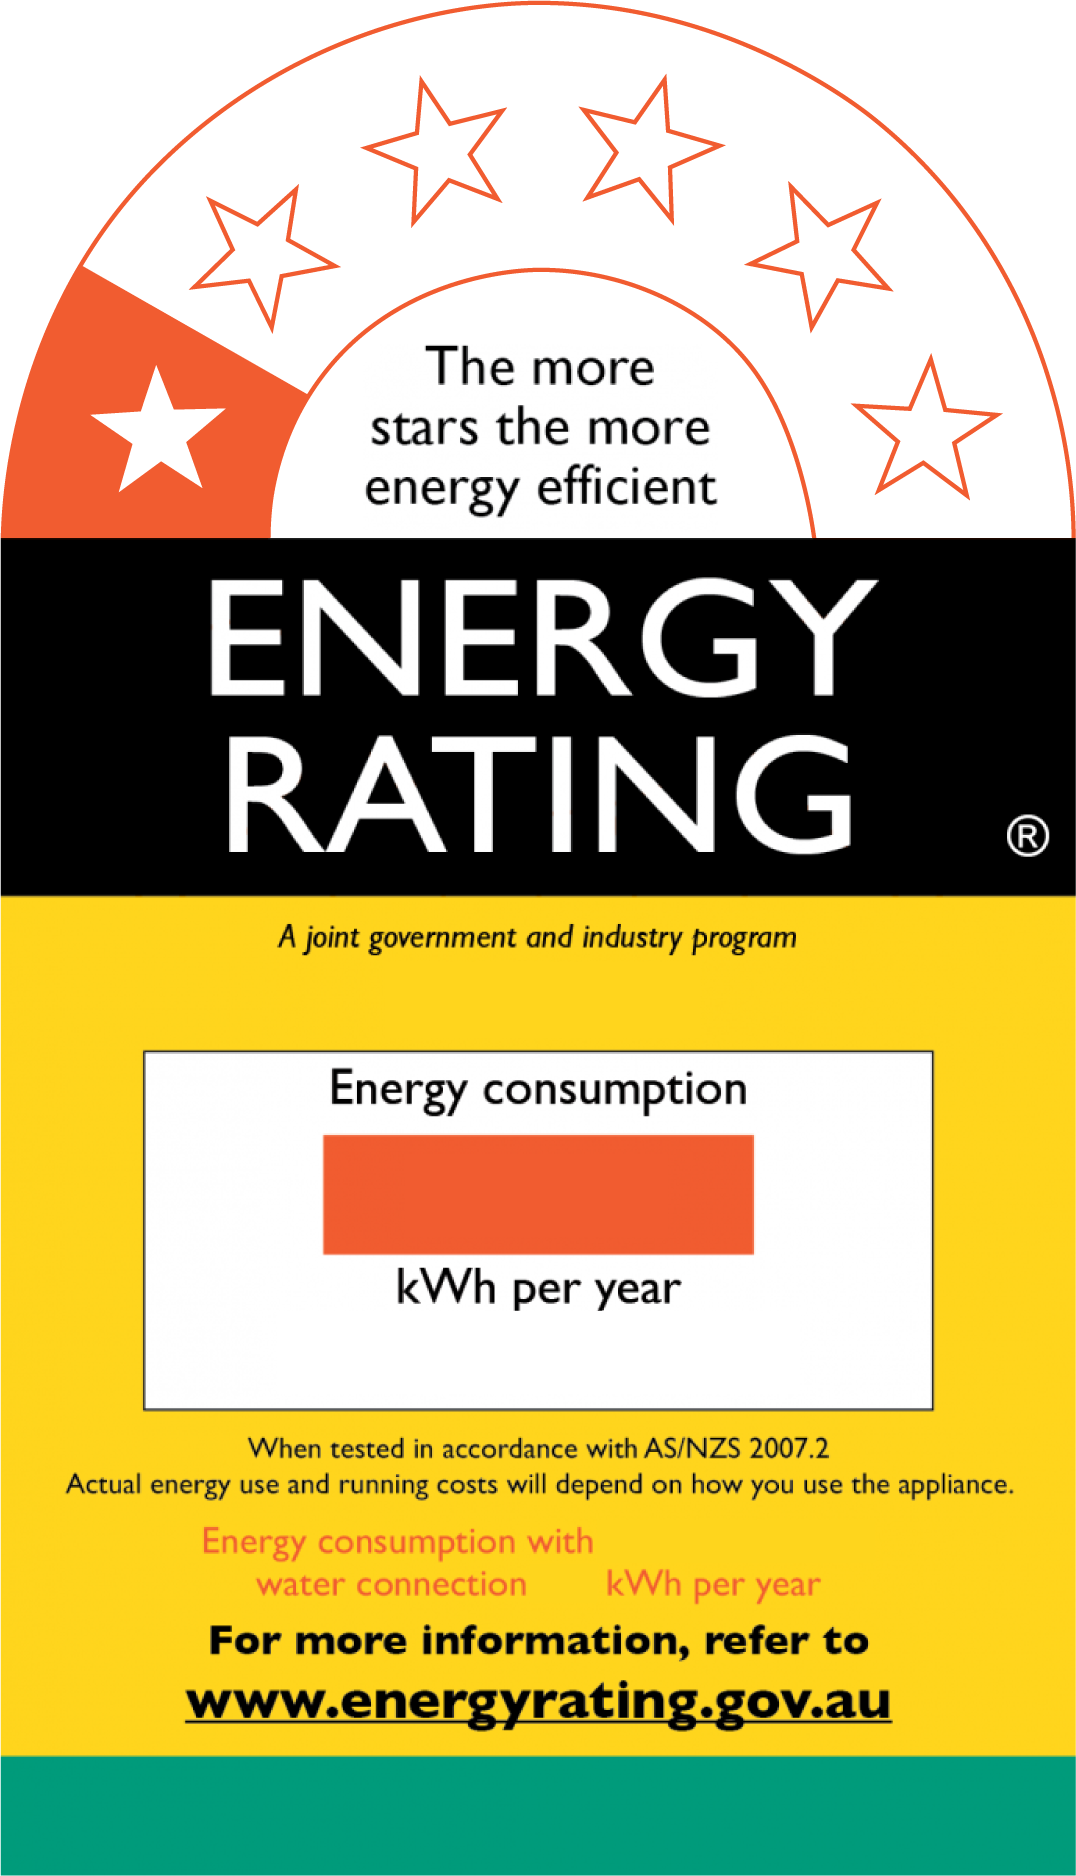
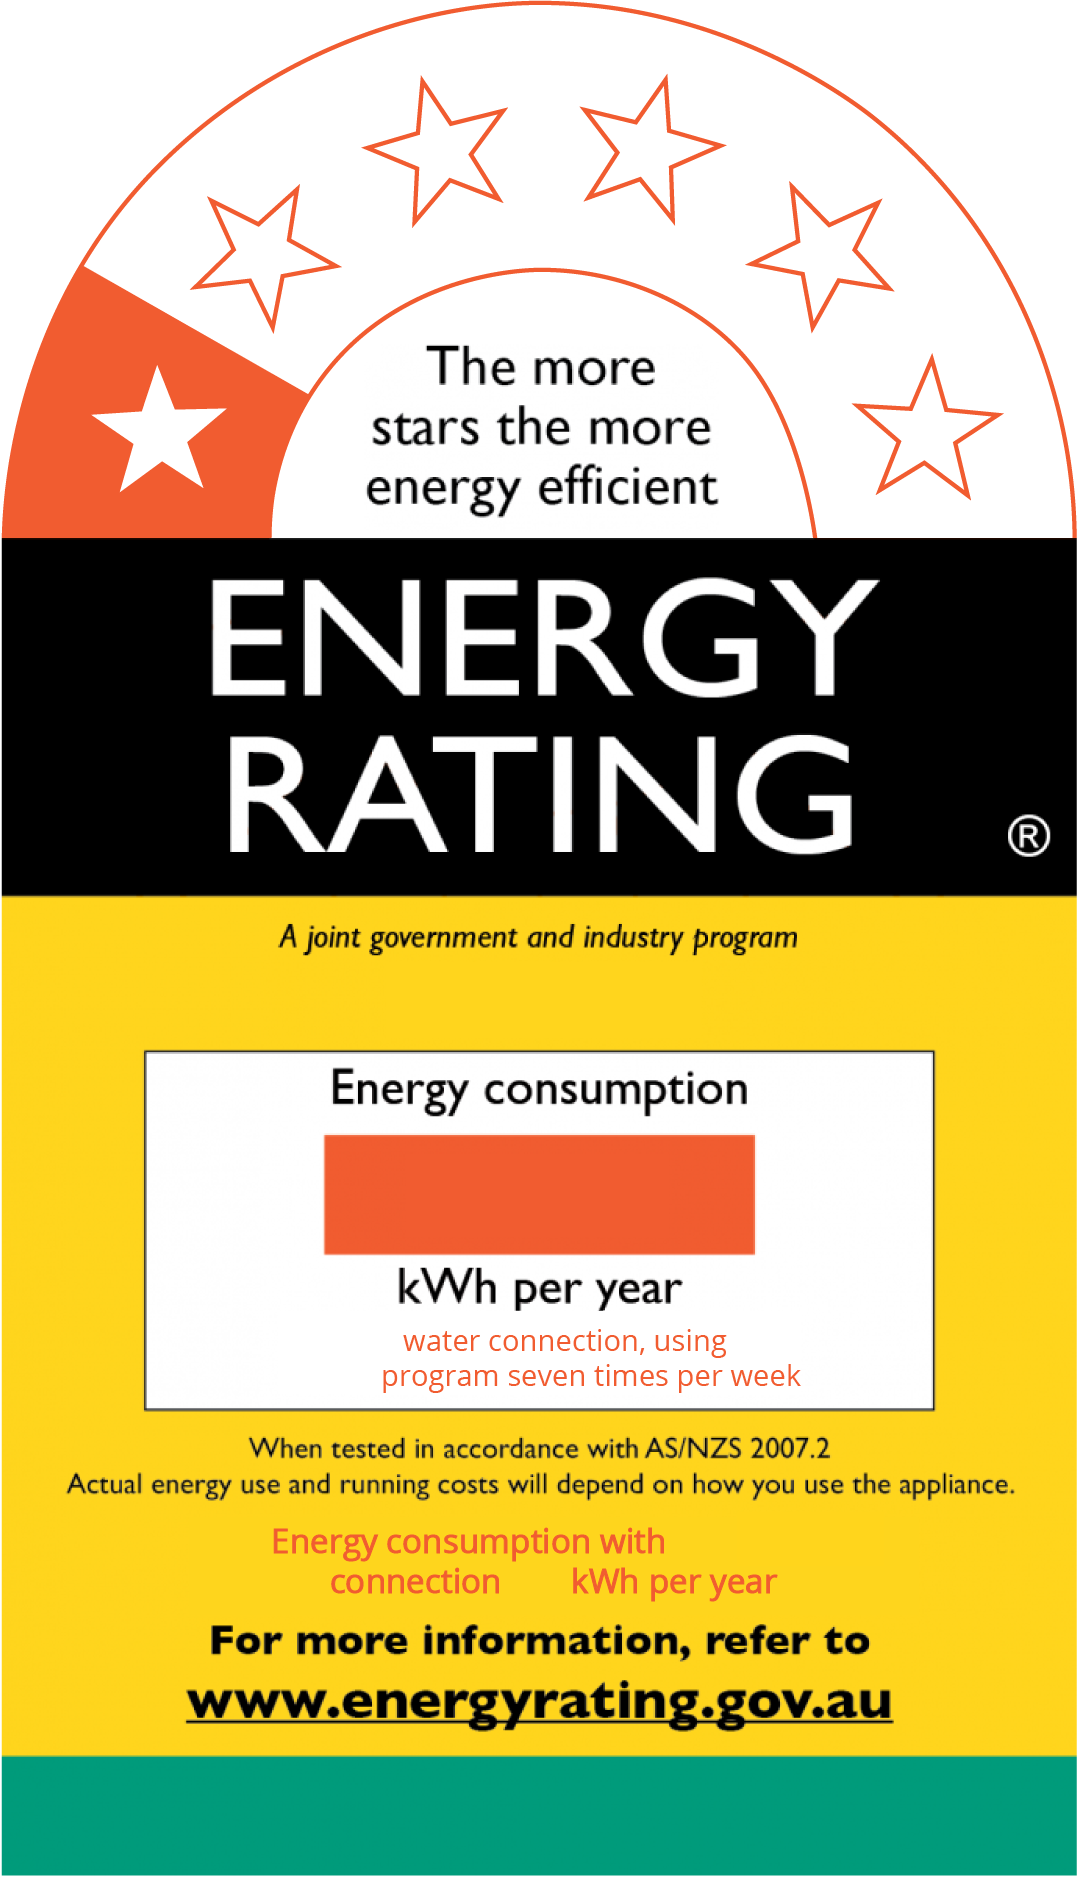
updated template images, fixed greeting message
added templates for up to 4 stars correctly formatted, added if/else logic in homepage.html to render greeting message correctly

diff --git a/mywebsite/images/templates/images/homepage.html b/mywebsite/images/templates/images/homepage.html
@@ -29,8 +29,11 @@
 
         <!-- This text is displayed differently on mac vs windows, probably due to the Bootstrap
         default being different between browsers/platforms. -->
-
-        <h1 class="text-center welcome-text-header"> {{ greeting_message }} </h1>
+        {% if user.is_authenticated %}
+        <h1 class="text-center welcome-text-header"> Hey, {{ user.first_name }}!</h1>
+        {% else %}
+        <h1 class="text-center welcome-text-header"> Hey there! </h1>
+        {% endif %}
         <h4 class="text-center welcome-text">There's gonna be an awesome website here soon.</h4>
         <h4 class="text-center lower-text">(as soon as we catch the python that's loose in the server)</h4>
     </div>

diff --git a/mywebsite/images/templates/images/sign in.html b/mywebsite/images/templates/images/sign in.html
@@ -35,8 +35,8 @@
                 {% csrf_token %}
                 
                 <div class="form-group col-12">
-                    {{ form.username.label }}
-                    {{ form.username }}
+                    {{ form.email.label }}
+                    {{ form.email }}
                 </div>
 
                 <div class="form-group col-12">

diff --git a/mywebsite/images/templates/images/final_image.html b/mywebsite/images/templates/images/final_image.html
@@ -26,7 +26,7 @@
         </ul>
 
     <div class="container-fluid">
-        <h1 class="text-center white-override"> Your new image: </h1>
+        <h1 class="text-center white-override"> Your label image: </h1>
         <img class="final-img" src ="{% static 'images/temp/' %}{{ image }}.png">
     </div>
 

diff --git a/mywebsite/images/views.py b/mywebsite/images/views.py
@@ -11,12 +11,7 @@ from PIL import Image, ImageDraw, ImageFont
 def index(request):
     # Returns homepage with default greeting if user is not signed in, or
     # personalized greeting with the users name if they are signed in.
-
-    if request.user.is_authenticated:
-        greeting_message = 'Hey, ' + request.user.first_name + '!'
-        return render(request, 'images/homepage.html', {'greeting_message': greeting_message})
-    else:
-        return render(request, 'images/homepage.html', {'greeting_message': 'Welcome!' })
+    return render(request, 'images/homepage.html')
 
 def final_image(request):
     return render(request, 'images/final_image.html')
@@ -55,10 +50,10 @@ def sign_in (request):
         # or has invalid characters? I'm not really sure.)
         if form.is_valid():
             # request.POST[''] retrieves that supplied value from the submitted form.
-            username = request.POST['username']
+            email = request.POST['email']
             password = request.POST['password']
 
-            user = authenticate(request, username=username, password=password)
+            user = authenticate(request, email=email, password=password)
 
             # Confirms that user exists in the database.
             if user is not None:
@@ -68,7 +63,7 @@ def sign_in (request):
                 return redirect('/images/')
 
             else:
-                return HttpResponse('<h1>Mission Failed!</h1>')
+                return HttpResponse('<h1>Uh oh! Something went wrong.</h1>')
 
     # Renders the template with the form data - it looks weird being at the bottom down here,
     # but this is where it's supposed to be.
@@ -80,13 +75,12 @@ def sign_up (request):
     if request.method == 'POST':
         form = SignUpForm(request.POST)
         if form.is_valid():
-           username = form.cleaned_data['username']
            email = form.cleaned_data['email']
            first_name = form.cleaned_data['first_name']
            last_name = form.cleaned_data['last_name']
            password = form.cleaned_data['password']
 
-           user = User.objects.create_user(username, email)
+           user = User.objects.create_user(email)
            user.first_name = first_name
            user.last_name = last_name
            user.set_password(password)

diff --git a/mywebsite/images/imageOverlay.py b/mywebsite/images/imageOverlay.py
@@ -54,8 +54,8 @@ class ImageOverlay():
         kWh_small_text_size = kWh_small.textsize(self.kwh, font=kWh_font)
         kWh_small_text_midpoint = kWh_small_text_size[0] / 2
 
-        d1_text_size = model_num.textsize(self.model_num, font=model_num_font)
-        model_num_text_midpoint = d1_text_size[0] / 2
+        model_num_text_size = model_num.textsize(self.model_num, font=model_num_font)
+        model_num_text_midpoint = model_num_text_size[0] / 2
 
         # Overlays Model Number, with orange text.
         model_num.text((538 - model_num_text_midpoint , 980), self.model_num, font = model_num_font, fill=(241, 92, 48))
@@ -70,13 +70,11 @@ class ImageOverlay():
 
         program.text((274, 1354), 'normal', font=primary_font, fill=(241, 92, 48))
 
-        
-
         # Generates unique ID for each image, so they don't save over each other.
         uniq_id = str(uuid.uuid4())
 
         # Generates a unique id that is 8 digits long.
-        self.final_img_id = uniq_id[0:8]    
+        self.final_img_id = uniq_id[0:8]
 
         # Saves image to filepath, with unique id as image name
         template_img.save('images/static/images/temp/' + self.final_img_id + '.png')
@@ -87,8 +85,3 @@ class ImageOverlay():
         Returns the unique image id..
         '''
         return self.final_img_id
-
-        
-'''
-Initializes the object, and generates an image with input from parameters
-'''

diff --git a/mywebsite/images/forms.py b/mywebsite/images/forms.py
@@ -36,12 +36,11 @@ class ContactForm(forms.Form):
 
 
 class SignUpForm(forms.Form):
-    username = forms.CharField(label='Username', widget=forms.TextInput(attrs={'class': 'form-control'}))
     email = forms.CharField(label='Email', widget=forms.TextInput(attrs={'class': 'form-control'}))
     first_name = forms.CharField(label='First Name', widget=forms.TextInput(attrs={'class': 'form-control'}))
     last_name = forms.CharField(label='Last Name', widget=forms.TextInput(attrs={'class': 'form-control'}))
     password = forms.CharField(label='Password', widget=forms.PasswordInput(attrs={'class': 'form-control'}))
 
 class SignInForm(forms.Form):
-     username = forms.CharField(label='Username', widget=forms.TextInput(attrs={'class': 'form-control'}))
+     email = forms.CharField(label='Email', widget=forms.TextInput(attrs={'class': 'form-control'}))
      password = forms.CharField(label='Password', widget=forms.PasswordInput(attrs={'class': 'form-control'}))

diff --git a/mywebsite/images/urls.py b/mywebsite/images/urls.py
@@ -3,7 +3,7 @@ from . import views
 
 urlpatterns = [
     #/images/
-    # all these urls are added after localhost:8000
+    
     url(r'^$', views.index, name='index'),
 
     url(r'^finalimage/$', views.final_image, name='final_image'),
